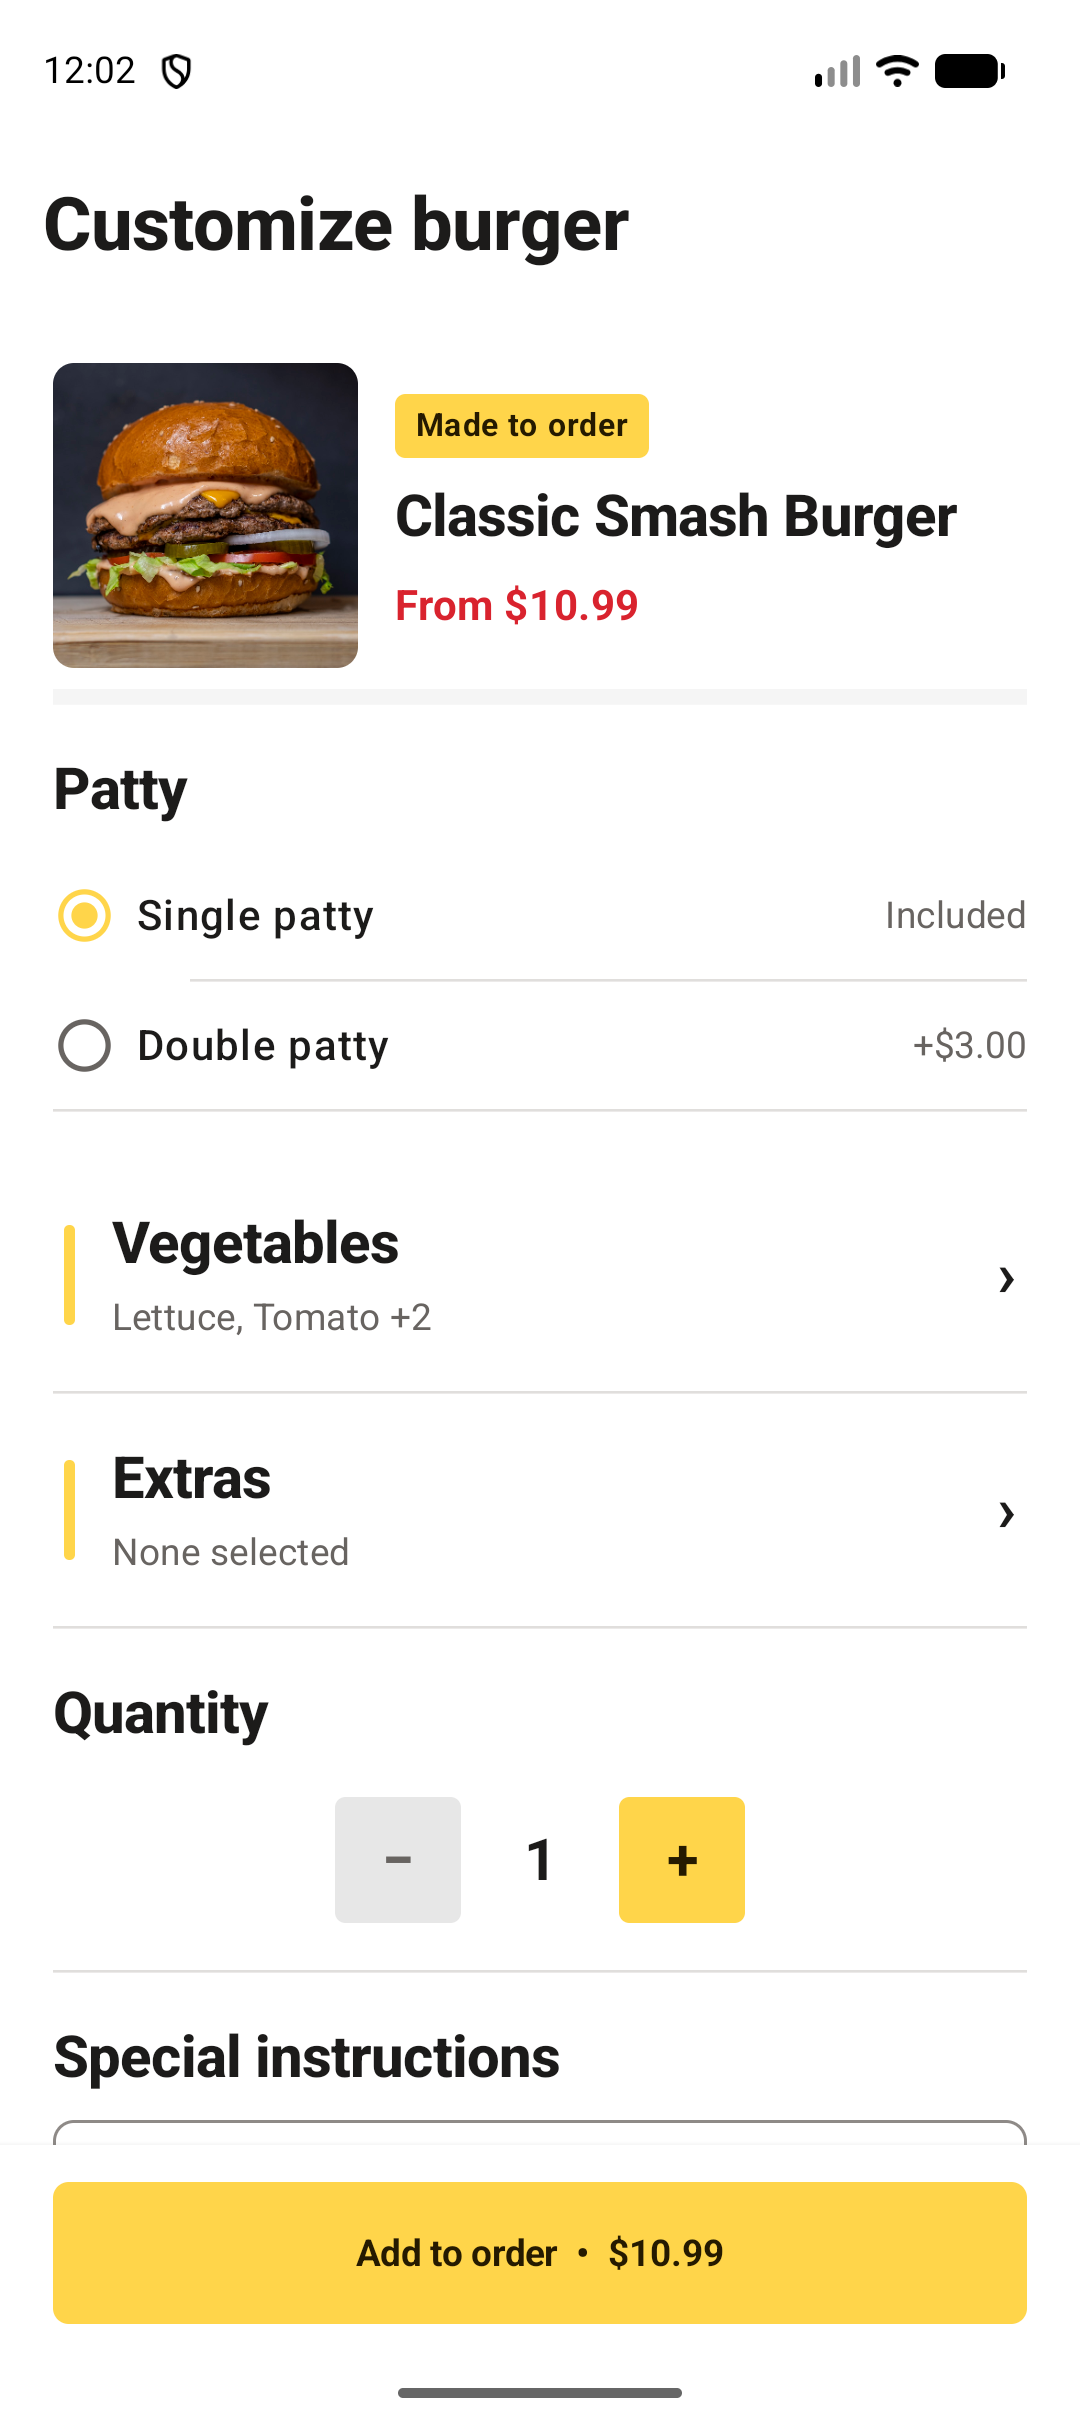
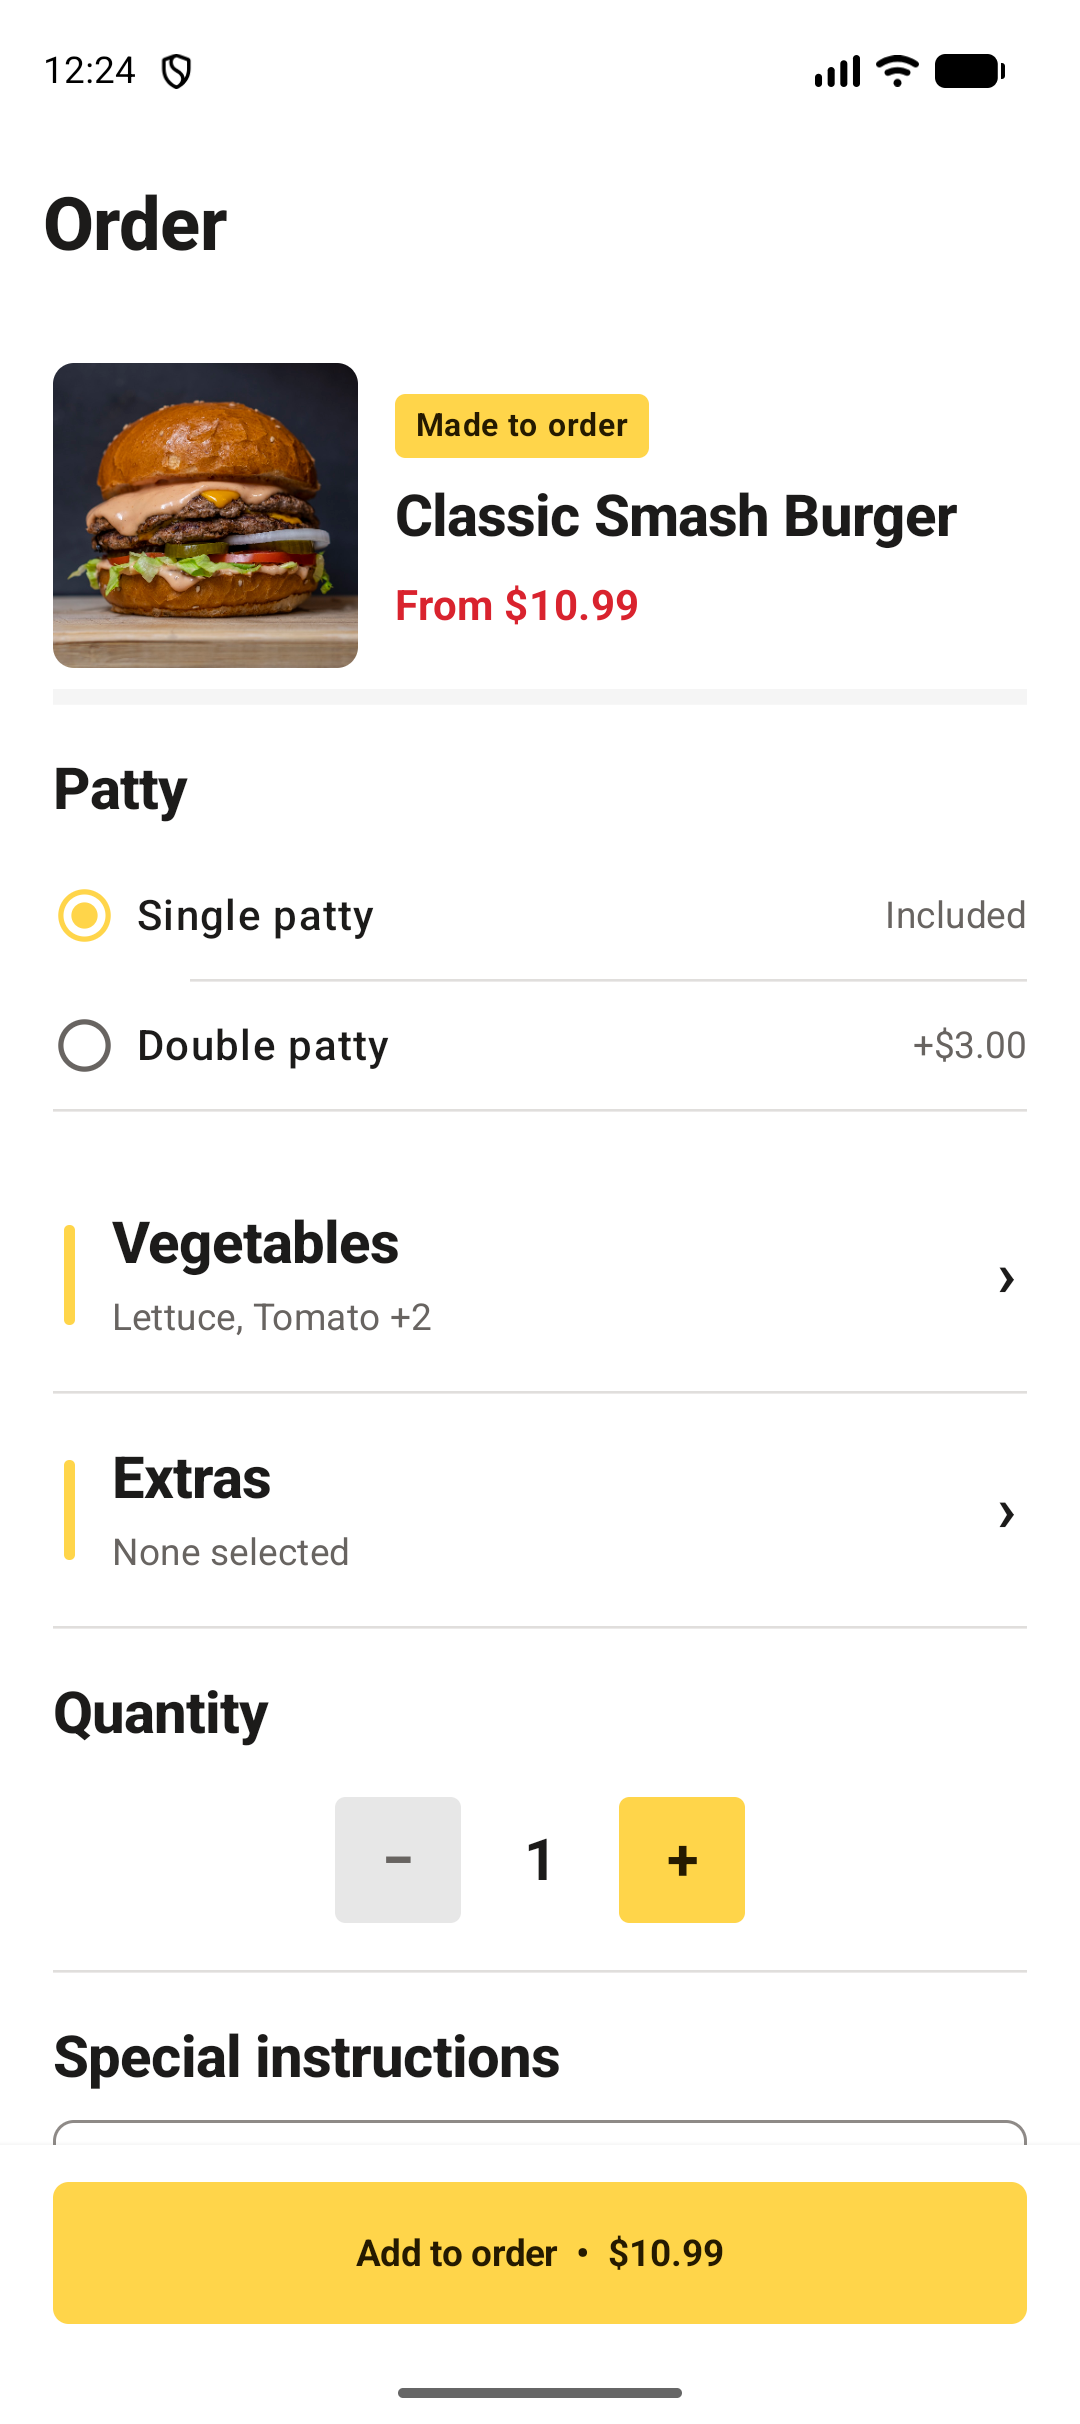
Use generic order title

Changed region(s): [[0.0917, 0.0619, 0.5806, 0.1238], [0.7639, 0.0, 0.7944, 0.0309], [0.0917, 0.0, 0.1222, 0.0309]]

diff --git a/level-02-state-and-input/burger-builder/app/src/main/java/com/example/burgerbuilder/ui/burgerbuilder/BurgerBuilderScreen.kt b/level-02-state-and-input/burger-builder/app/src/main/java/com/example/burgerbuilder/ui/burgerbuilder/BurgerBuilderScreen.kt
@@ -202,7 +202,7 @@ private fun BurgerCustomizationPage(
       TopAppBar(
         title = {
           Text(
-            text = "Customize burger",
+            text = "Order",
             style = MaterialTheme.typography.headlineMedium,
             fontWeight = FontWeight.ExtraBold,
           )
